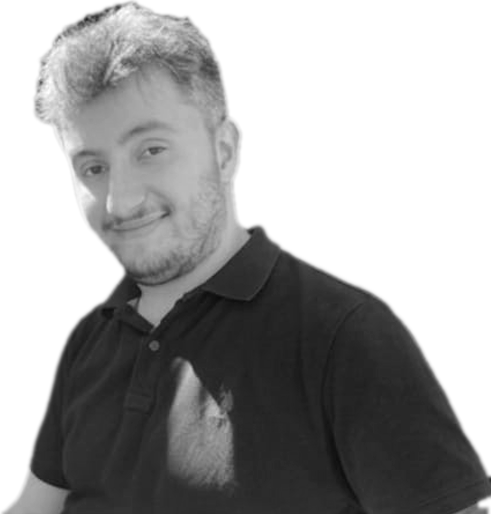
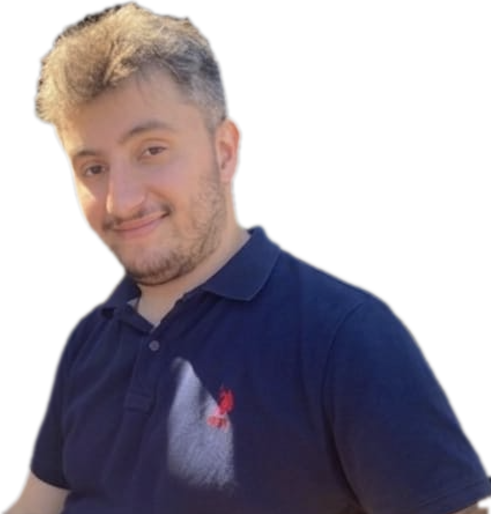
Use color portrait
Claude-Session: https://claude.ai/code/session_01HFEWi5ofU6W8itA1HnXwar

diff --git a/index.html b/index.html
@@ -59,7 +59,7 @@ a { color: inherit; text-decoration: none; }
 .scroll i { font-style: normal; display: inline-block; animation: bob 1.8s ease-in-out infinite; }
 @keyframes bob { 50% { transform: translateY(4px); } }
 .portrait { grid-column: 3; align-self: end; justify-self: end; width: min(100%, 640px); margin-right: calc(var(--pad) * -1); }
-.portrait img { display: block; width: 100%; height: auto; filter: contrast(1.04); }
+.portrait img { display: block; width: 100%; height: auto; }
 
 /* ---------- sections ---------- */
 section.block { display: grid; grid-template-columns: 56px minmax(0, 1fr); padding: 0 var(--pad); }
